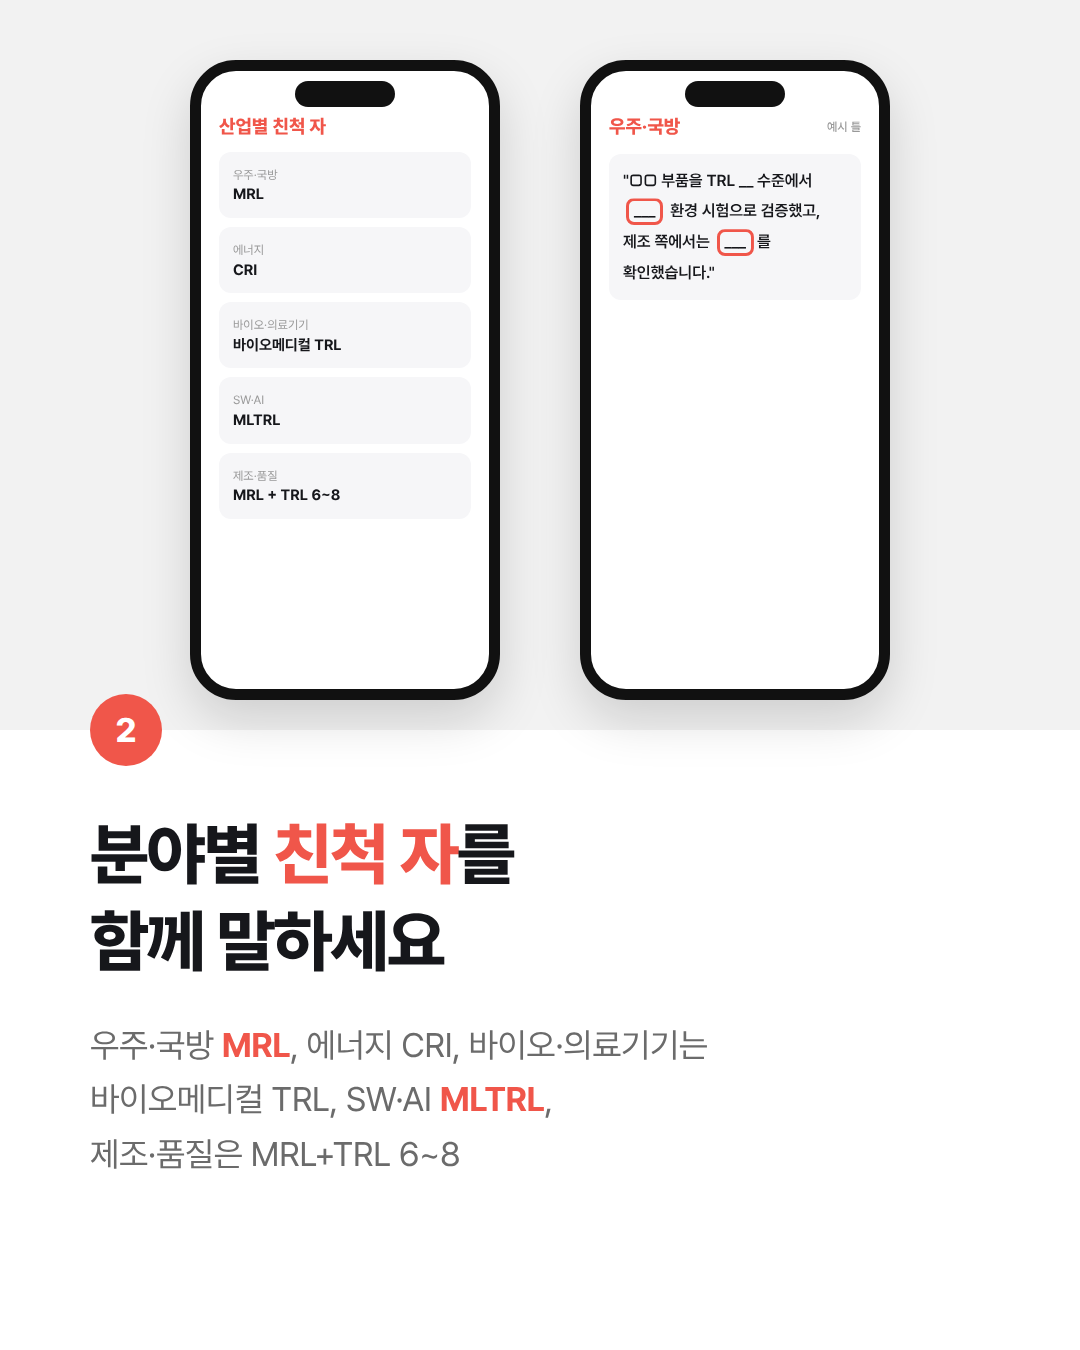
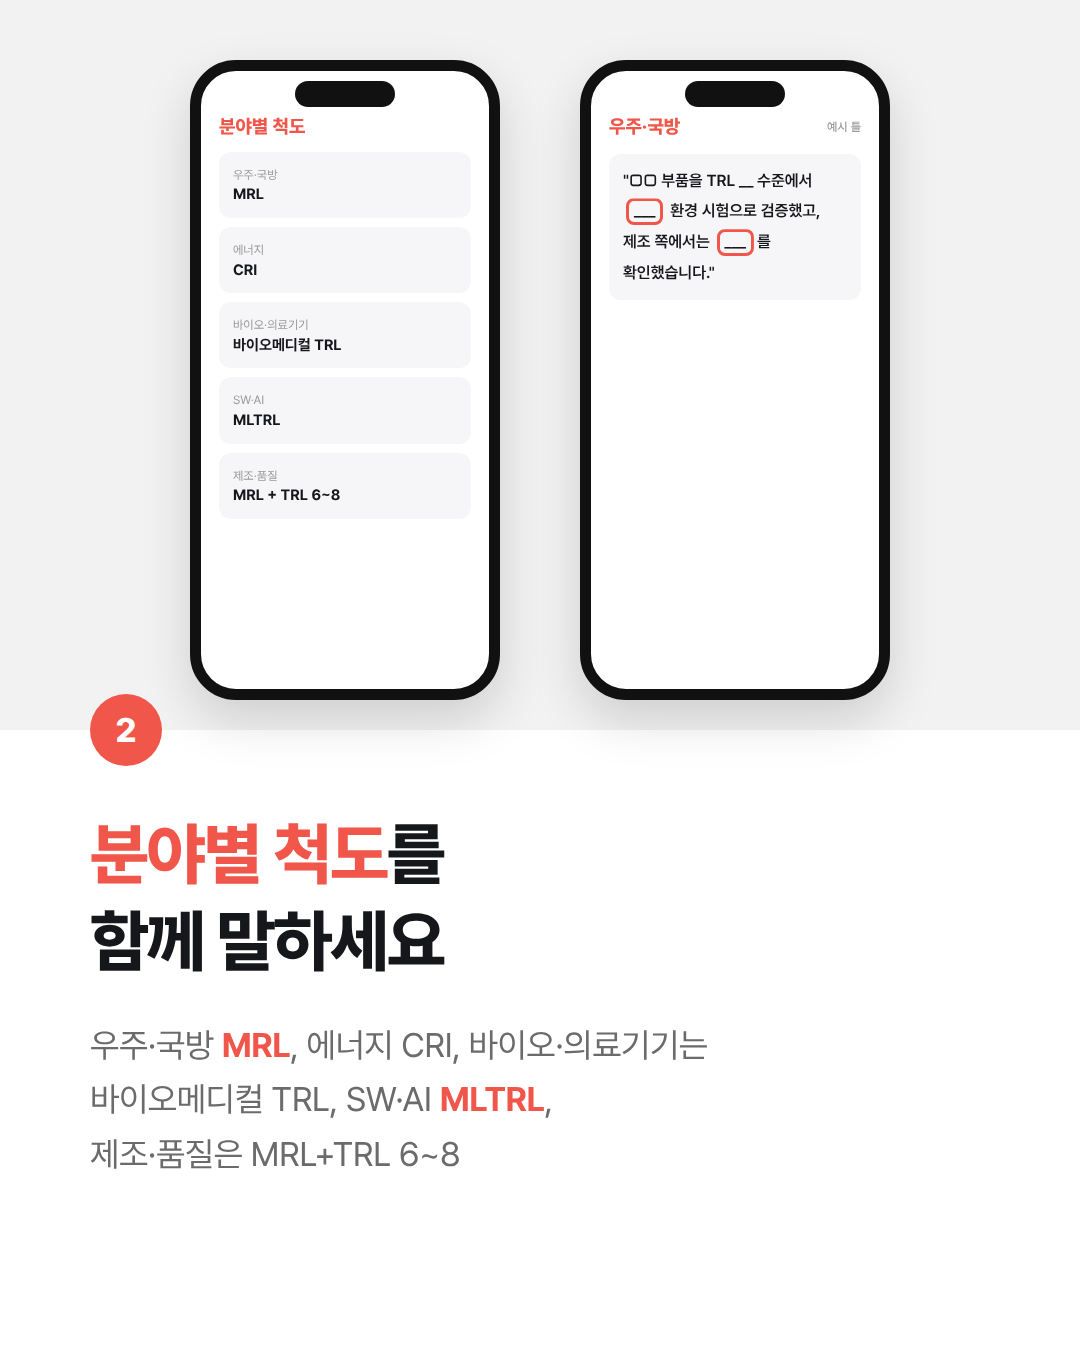
office: TRL '친척 자' → '분야별 척도' (진행 중)
Claude-Session: https://claude.ai/code/session_01HCQhJp9fK9QrXzRY9SMg4y

Changed region(s): [[0.0917, 0.5911, 0.4889, 0.6533]]

diff --git a/office/20261018_TRL주니어학습/blog_naver.html b/office/20261018_TRL주니어학습/blog_naver.html
@@ -26,13 +26,13 @@ button.main{background:var(--red);color:#fff}
 <p style="margin:0 0 4px;font-size:16px;line-height:1.8;color:#222;margin-bottom:22px">TRL은 기술이 어디까지 입증됐는지 재는 9칸짜리 자입니다.<br>NASA에서 시작됐고, Mankins(1995) 백서가 9단계를 정리했습니다.<br>1) 1~3단계: 아이디어·원리를 실험실에서 확인<br>2) 4~6단계: 시제품을 실제와 비슷한 환경에서 검증<br>3) 7~9단계: 현장 실증, 인증, 실제 운용</p>
 <div class="ph" style="border:2px dashed #F0564A;border-radius:12px;background:#FDECEA;padding:18px 20px;margin:8px 0 26px;text-align:center;color:#222;font-size:15px;line-height:1.6"><b style="color:#F0564A;font-size:17px">📷 img2.png</b><br>1~3 / 4~6 / 7~9를 세 색으로 나눈 9칸 자 도식(직접 제작)<br><span style="color:#6B6B6B">TRL 9칸 자, 세 구간으로 보면 쉽습니다</span></div>
 <h3 style="font-size:20px;font-weight:800;color:#111;margin:36px 0 14px;padding-left:12px;border-left:5px solid #F0564A">내 산업에서는 TRL을 어떻게 말할까요?</h3>
-<p style="margin:0 0 4px;font-size:16px;line-height:1.8;color:#222;margin-bottom:22px">분야마다 TRL과 함께 쓰는 '친척 자'가 있다고 알려져 있습니다.</p>
+<p style="margin:0 0 4px;font-size:16px;line-height:1.8;color:#222;margin-bottom:22px">분야마다 TRL과 함께 쓰는 분야별 척도가 있다고 알려져 있습니다.</p>
 <p style="margin:0 0 4px;font-size:16px;line-height:1.8;color:#222;margin-bottom:22px">1) 우주·국방: MRL(제조성숙도, 양산 준비 정도를 재는 1~10단계 자)<br>포인트: TRL과 MRL이 1:1로 맞지 않는다고 알려진 점<br>"□□ 부품을 TRL __ 수준에서 ___ 환경 시험으로 검증했고, 제조 쪽에서는 ___를 확인했습니다."</p>
 <p style="margin:0 0 4px;font-size:16px;line-height:1.8;color:#222;margin-bottom:22px">2) 에너지: CRI(상업성숙도지수, 시장·투자 준비 정도를 재는 1~6단계 자. 호주 ARENA가 만든 것으로 알려짐)<br>포인트: 기술 준비와 시장 준비의 차이<br>"기술은 ___ 단계였지만 ___를 검토해 사업성 측면의 ___를 확인했습니다."</p>
 <p style="margin:0 0 4px;font-size:16px;line-height:1.8;color:#222;margin-bottom:22px">3) 바이오·의료기기: 바이오메디컬 TRL(전임상·임상·허가 단계에 맞춘 TRL)<br>포인트: 규제·임상 단계와 내 역할<br>"___ 단계(전임상/임상/허가 준비)에서 ___ 자료를 만들어 ___를 입증했습니다."</p>
 <p style="margin:0 0 4px;font-size:16px;line-height:1.8;color:#222;margin-bottom:22px">4) SW·AI: MLTRL(머신러닝 시스템용 TRL, Lavin 외 2022)<br>포인트: 시스템 단계를 정하는 가장 약한 부분<br>"PoC(개념 검증)에서 운영으로 가며 가장 약한 ___(데이터/모니터링 등)를 보강해 ___를 확인했습니다."</p>
 <p style="margin:0 0 4px;font-size:16px;line-height:1.8;color:#222;margin-bottom:22px">5) 제조·품질: MRL + TRL 6~8<br>포인트: 파일럿→양산, 수율, 신뢰성 시험, 인증<br>"파일럿에서 양산으로 넘어가며 ___ 시험 기준을 세워 ___를 입증했습니다."</p>
-<div class="ph" style="border:2px dashed #F0564A;border-radius:12px;background:#FDECEA;padding:18px 20px;margin:8px 0 26px;text-align:center;color:#222;font-size:15px;line-height:1.6"><b style="color:#F0564A;font-size:17px">📷 img3.png</b><br>산업별 5칸을 카드 한 장으로 정리한 이미지<br><span style="color:#6B6B6B">내 분야의 '친척 자'를 함께 말하면 이해가 빨라집니다</span></div>
+<div class="ph" style="border:2px dashed #F0564A;border-radius:12px;background:#FDECEA;padding:18px 20px;margin:8px 0 26px;text-align:center;color:#222;font-size:15px;line-height:1.6"><b style="color:#F0564A;font-size:17px">📷 img3.png</b><br>산업별 5칸을 카드 한 장으로 정리한 이미지<br><span style="color:#6B6B6B">내 분야에 맞는 '분야별 척도'를 함께 말하면 이해가 빨라집니다</span></div>
 <h3 style="font-size:20px;font-weight:800;color:#111;margin:36px 0 14px;padding-left:12px;border-left:5px solid #F0564A">내 직무는 TRL을 어떻게 한 문장으로 말할까요?</h3>
 <p style="margin:0 0 4px;font-size:16px;line-height:1.8;color:#222;margin-bottom:22px"><b>공식: "TRL a→b 과정에서 □□를 입증했고, 결과는 △△입니다."</b><br>1) 품질(TRL 6→7): 신뢰성 시험 기준<br>2) 생산기술(TRL 6→8, MRL __→__): 공정 안정화<br>3) 사업개발·기획(TRL 5→7): 수요처 실증 파트너 확보·사업성 검토('입증했고' 대신 '맡았고')<br>4) PM(TRL a→b 전환 검토): 전환 기준·리스크 정리<br>5) 기술영업·FAE(TRL 7→8): 고객 현장 실증<br>6) SW·AI(MLTRL PoC→운영): 가장 약한 구성요소 보강<br><span style="color:#F0564A;font-weight:700">팁: △△에는 수치·판정(통과·채택·이관)이나 "다음 단계로 넘겨졌다" 같은 상태 변화를 쓰세요.</span></p>
 <div class="ph" style="border:2px dashed #F0564A;border-radius:12px;background:#FDECEA;padding:18px 20px;margin:8px 0 26px;text-align:center;color:#222;font-size:15px;line-height:1.6"><b style="color:#F0564A;font-size:17px">📷 img4.png</b><br>직무별 한 문장 공식 카드(직접 제작)<br><span style="color:#6B6B6B">내 직무 줄만 골라 □□를 채워 보세요</span></div>

diff --git a/office/20261018_TRL주니어학습/03_draft_v2.md b/office/20261018_TRL주니어학습/03_draft_v2.md
@@ -39,7 +39,7 @@ TRL 9칸 자, 세 구간으로 나눠 보면 쉽습니다
 
 ■ 산업마다 TRL 면접 포인트가 다릅니다
 
-분야마다 TRL과 함께 쓰는 '친척 자'가 있다고 알려져 있습니다.
+분야마다 TRL과 함께 쓰는 분야별 척도가 있다고 알려져 있습니다.
 내 지원 분야 칸만 골라 빈칸을 채워 보세요.
 
 1) 우주·국방
@@ -68,7 +68,7 @@ TRL 9칸 자, 세 구간으로 나눠 보면 쉽습니다
 빈칸 틀: "파일럿에서 양산으로 넘어가며 ___ 시험 기준을 세워 ___를 입증했습니다."
 
 📷 사진 3: 산업별 5칸 표를 카드 한 장으로 정리한 이미지
-내 분야의 '친척 자'를 함께 말하면 이해가 빨라집니다
+내 분야에 맞는 '분야별 척도'를 함께 말하면 이해가 빨라집니다
 
 ──────────
 
@@ -130,7 +130,7 @@ TRL 9칸 자, 세 구간으로 나눠 보면 쉽습니다
 ■ 마무리 요약
 
 1) TRL은 기술이 어디까지 입증됐는지 재는 9칸 자입니다.
-2) 산업별 친척 자(MRL·CRI·MLTRL 등)를 함께 쓰면 설명이 쉬워집니다.
+2) 분야별 척도(MRL·CRI·MLTRL 등)를 함께 쓰면 설명이 쉬워집니다.
 3) 면접에서는 숫자보다 "무엇을 입증했나"가 핵심입니다.
 
 오늘 내 프로젝트 하나를 골라 한 문장 공식을 채워 보세요.

diff --git a/office/20261018_TRL주니어학습/02_plan_v2.md b/office/20261018_TRL주니어학습/02_plan_v2.md
@@ -32,7 +32,7 @@
 - 이 글에서는 단계표를 외우지 않아도 된다고 안심시킨다.
 - 📷 사진 2: 9칸 자 도식(직접 만든 간단한 그림: 1~3 / 4~6 / 7~9 세 색)
 
-### 2. 산업마다 TRL '친척'이 있다 — 산업별 예시 틀 (5개)
+### 2. 산업마다 TRL과 함께 쓰는 분야별 척도가 있다 — 산업별 예시 틀 (5개)
 분야마다 1) 쓰는 자, 2) 면접에서 꺼낼 말, 3) 빈칸 틀을 넣는다. 사례는 넣지 않고 빈칸만 쓴다.
 | 분야 | 함께 쓰는 자 | 면접에서 꺼낼 말 | 빈칸 틀 |
 |---|---|---|---|
@@ -78,7 +78,7 @@
 - 📷 사진 4: 빈칸 틀 워크시트 이미지(독자가 저장해 쓰도록)
 
 ### 마무리
-- 3줄 요약: ① TRL은 9칸 자 ② 산업별 친척 자를 함께 쓴다 ③ 숫자보다 입증한 것.
+- 3줄 요약: ① TRL은 9칸 자 ② 분야별 척도를 함께 쓴다 ③ 숫자보다 입증한 것.
 - 행동 유도: "내 프로젝트 하나를 골라 한 문장 공식을 채워 보세요." 커리어캐쳐 코칭 안내(SKILL.md 7절 기준).
 
 ### 출처란 (글 하단)

diff --git a/office/20261018_TRL주니어학습/07_instagram_caption.md b/office/20261018_TRL주니어학습/07_instagram_caption.md
@@ -2,7 +2,7 @@
 
 1⃣ 표지 — TRL 9칸 자로 프로젝트를 한 문장으로 정리하는 법
 2⃣ TRL은 기술이 어디까지 입증됐는지 재는 9칸 자: 1~3 실험실 원리 확인, 4~6 유사 환경 검증, 7~9 현장 실증·인증·운용
-3⃣ 분야별 친척 자: 우주·국방 MRL, 에너지 CRI, 바이오·의료기기 바이오메디컬 TRL, SW·AI MLTRL, 제조·품질 MRL+TRL 6~8
+3⃣ 분야별 척도: 우주·국방 MRL, 에너지 CRI, 바이오·의료기기 바이오메디컬 TRL, SW·AI MLTRL, 제조·품질 MRL+TRL 6~8
 4⃣ 직무별 한 문장 공식: "TRL a→b 과정에서 □□를 입증했고, 결과는 △△입니다."
 5⃣ 복잡한 시스템일수록 TRL 판정은 사람마다 다를 수 있다는 지적이 있어요. "대략 ~단계" 뒤에 "○○를 입증했습니다"로
 6⃣ TRL 면접 질문 5개, STAR(상황-과제-행동-결과) 순서로 답하고 회사 단계는 "~로 보입니다"로

diff --git a/office/20261018_TRL주니어학습/05_final_v2.md b/office/20261018_TRL주니어학습/05_final_v2.md
@@ -31,7 +31,7 @@ TRL 9칸 자, 세 구간으로 보면 쉽습니다
 
 ■ 내 산업에서는 TRL을 어떻게 말할까요?
 
-분야마다 TRL과 함께 쓰는 '친척 자'가 있다고 알려져 있습니다.
+분야마다 TRL과 함께 쓰는 분야별 척도가 있다고 알려져 있습니다.
 
 1) 우주·국방: MRL(제조성숙도, 양산 준비 정도를 재는 1~10단계 자)
 포인트: TRL과 MRL이 1:1로 맞지 않는다고 알려진 점
@@ -54,7 +54,7 @@ TRL 9칸 자, 세 구간으로 보면 쉽습니다
 "파일럿에서 양산으로 넘어가며 ___ 시험 기준을 세워 ___를 입증했습니다."
 
 📷 사진 3: 산업별 5칸을 카드 한 장으로 정리한 이미지
-내 분야의 '친척 자'를 함께 말하면 이해가 빨라집니다
+내 분야에 맞는 '분야별 척도'를 함께 말하면 이해가 빨라집니다
 
 ──────────
 

diff --git a/office/20261018_TRL주니어학습/06_cardnews.md b/office/20261018_TRL주니어학습/06_cardnews.md
@@ -25,10 +25,10 @@
 - 강조: 9칸 자, 입증
 - 레이아웃: 휴대폰 A=9칸 자 세 구간 도식(구간별 명도 차이, 색은 코랄 레드 농도만), 휴대폰 B=구간 이름 3줄. 4~6 구간에 `mark`
 
-## 3장. ② 내 산업의 '친척 자'
-- 제목: 분야별 친척 자를 / 함께 말하세요
+## 3장. ② 분야별 척도
+- 제목: 분야별 척도를 / 함께 말하세요
 - 본문: 우주·국방 MRL, 에너지 CRI, / 바이오 바이오메디컬 TRL, SW·AI MLTRL, / 제조·품질은 MRL+TRL 6~8
-- 강조: 친척 자, MRL, MLTRL
+- 강조: 분야별 척도, MRL, MLTRL
 - 레이아웃: 휴대폰 A=산업 5칸 리스트, 휴대폰 B=빈칸 틀 예시 "□□ 부품을 TRL __ 수준에서 ___ 환경 시험으로 검증했고, 제조 쪽에서는 ___를 확인했습니다." 빈칸에 `mark`
 
 ## 4장. ③ 직무별 한 문장 공식
